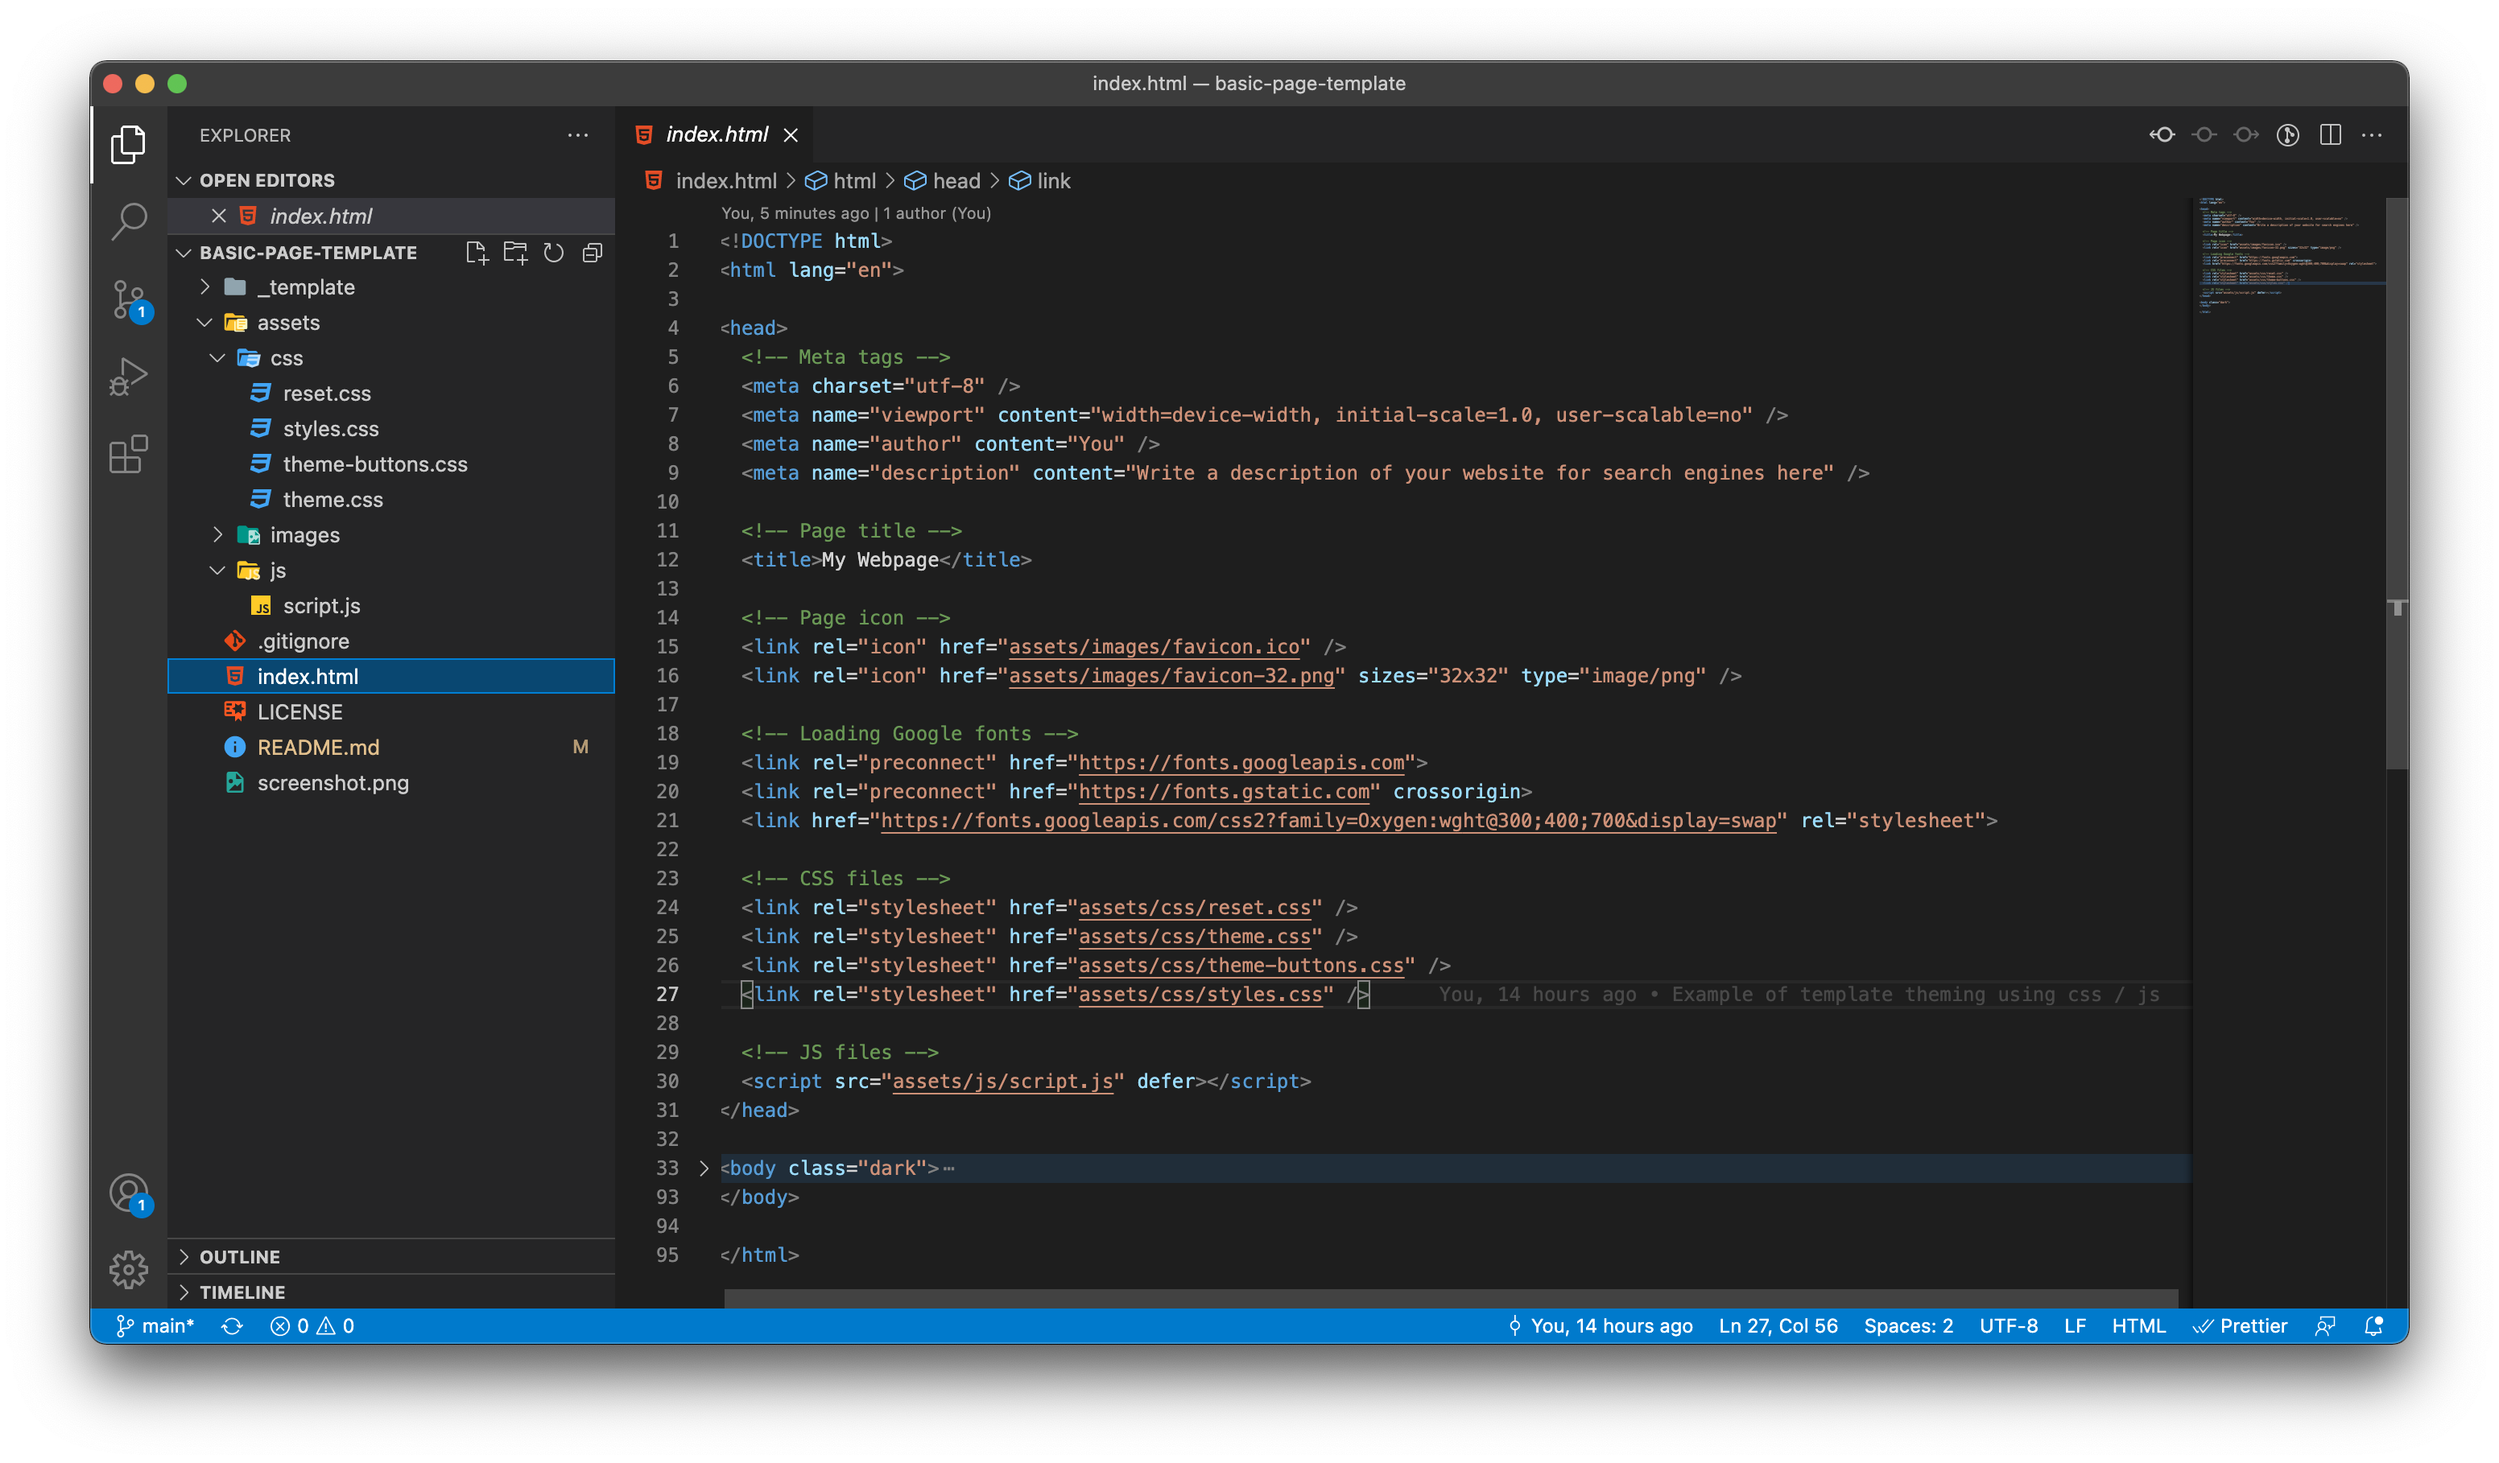
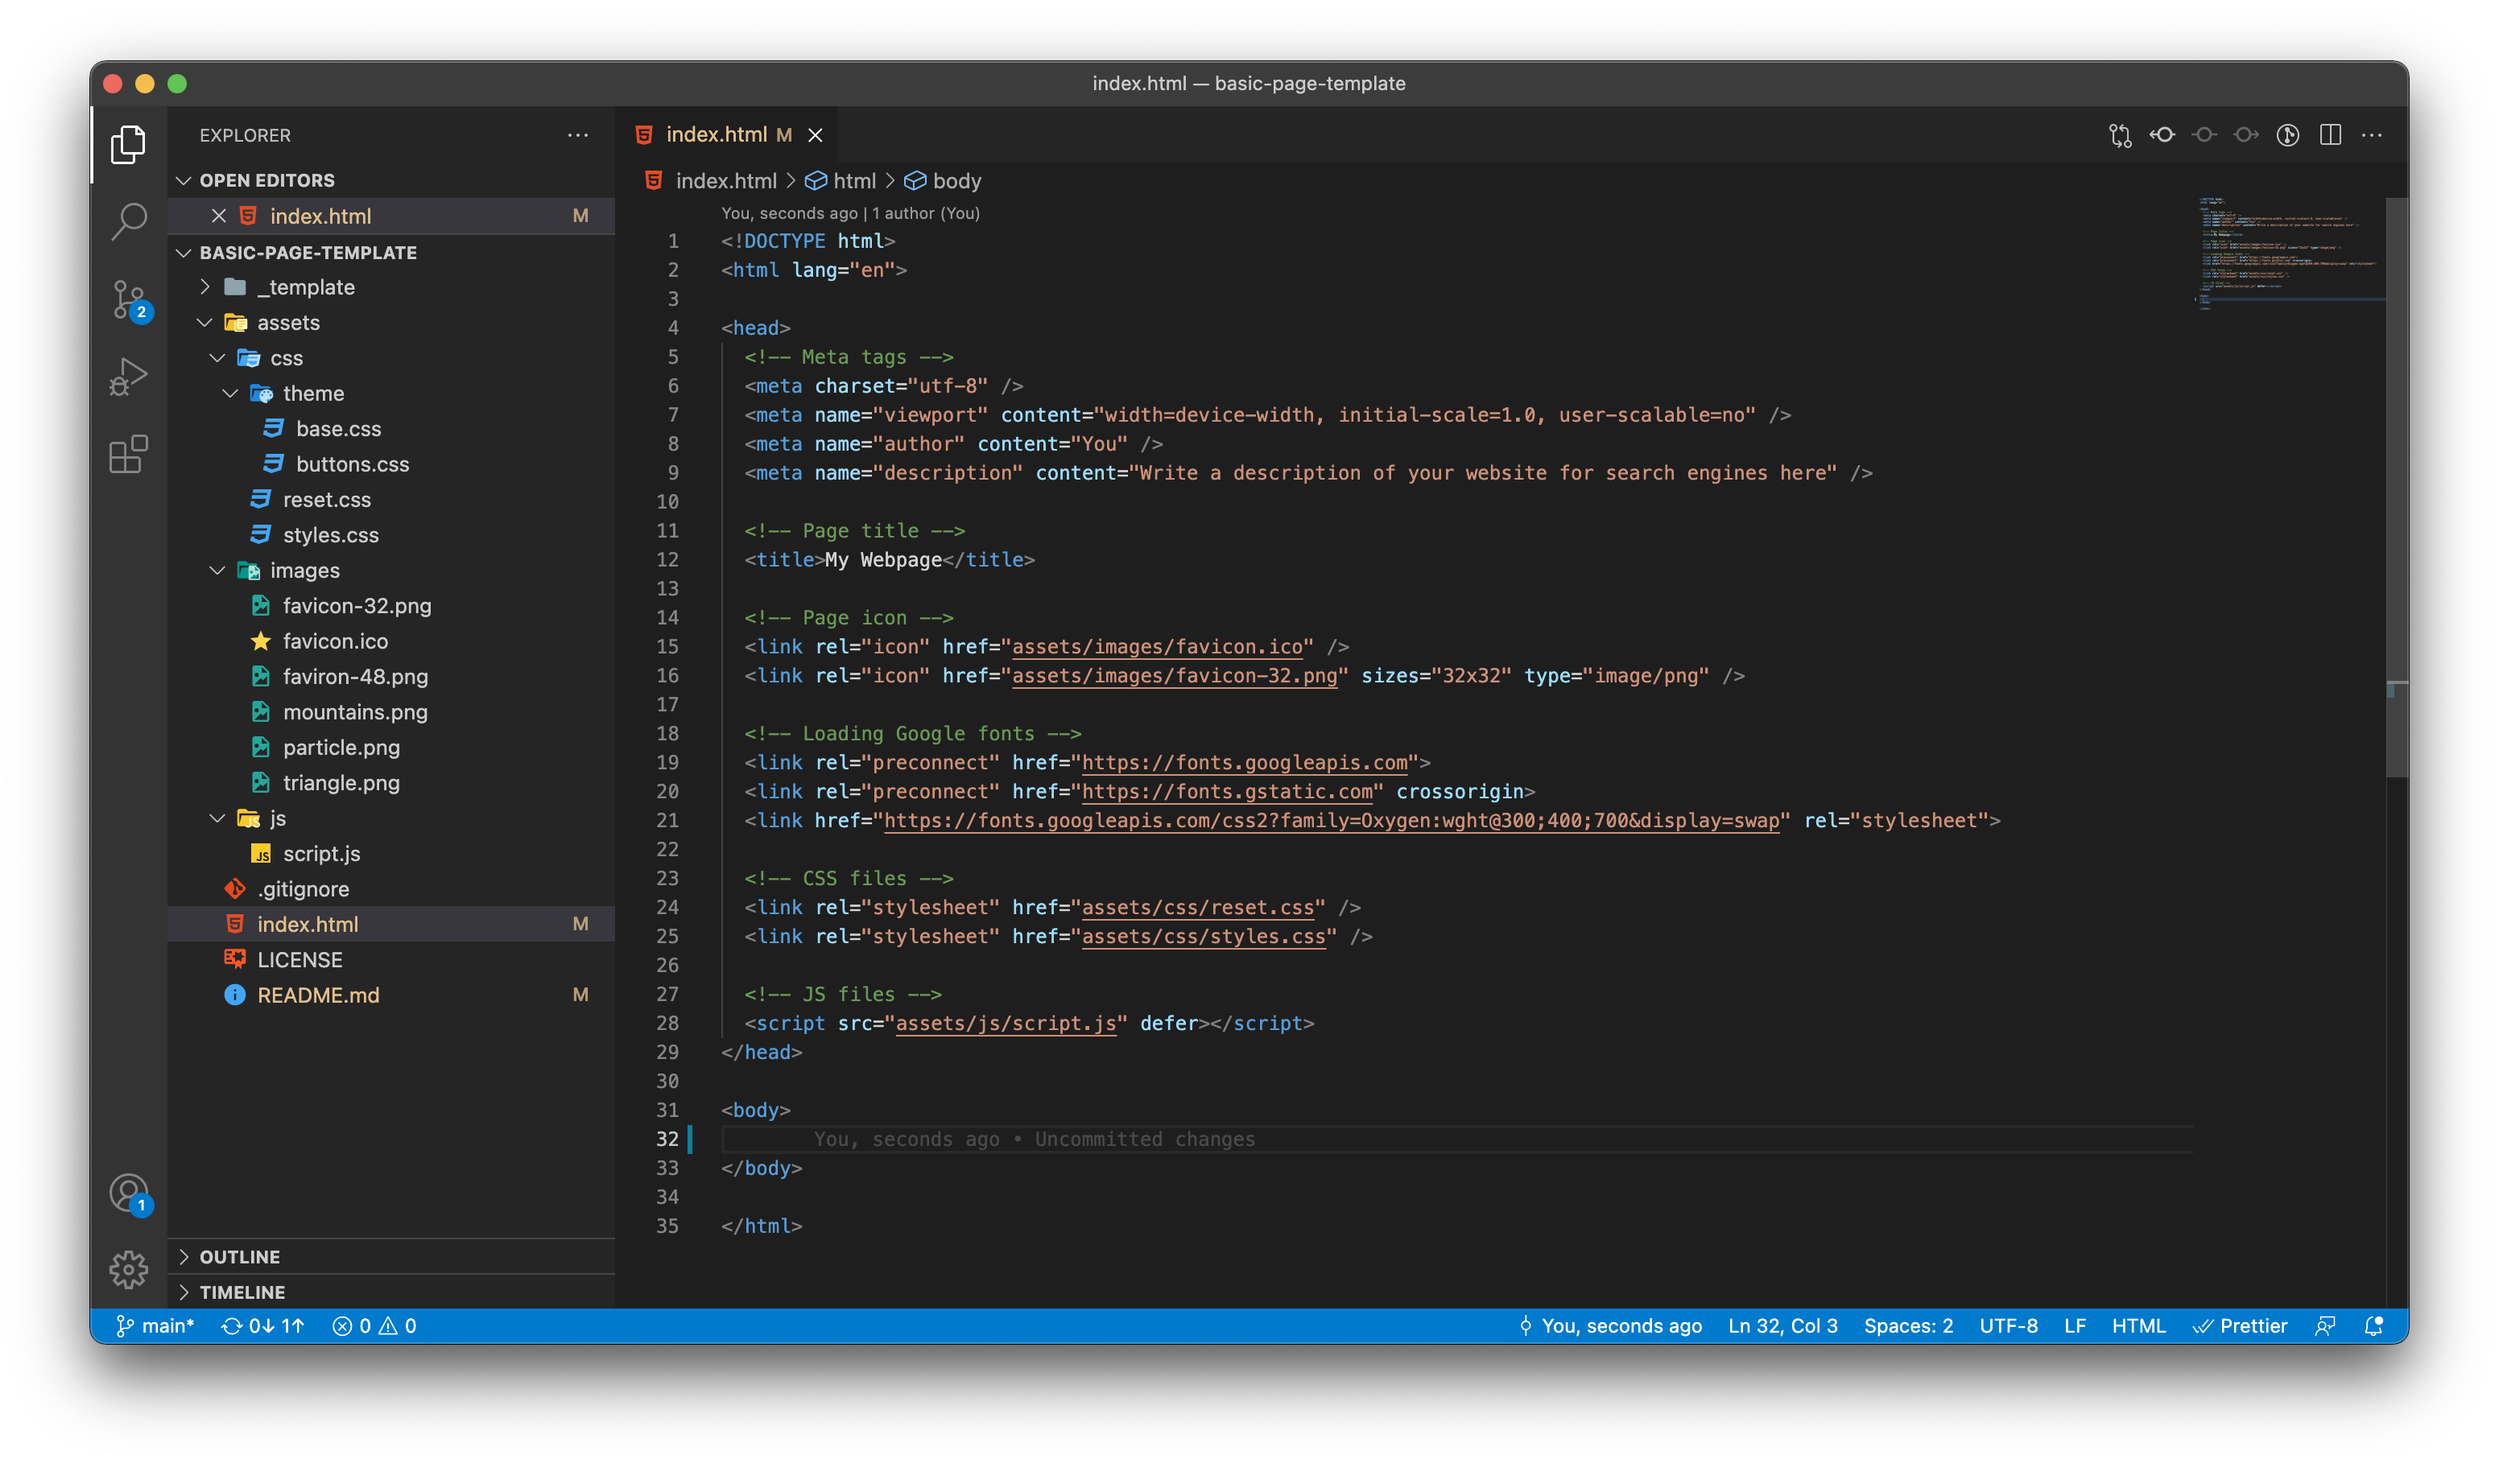
Update screenshot, move demo files to their own folder

diff --git a/_template/demo/demo.html b/_template/demo/demo.html
@@ -12,7 +12,7 @@
   <title>Theme demo</title>
 
   <!-- Page icon -->
-  <link rel="icon" href="../assets/images/faviron-48.png" sizes="48x48" type="image/png" />
+  <link rel="icon" href="./faviron-48.png" sizes="48x48" type="image/png" />
 
   <!-- Loading Google fonts -->
   <link rel="preconnect" href="https://fonts.googleapis.com">
@@ -20,15 +20,15 @@
   <link href="https://fonts.googleapis.com/css2?family=Oxygen:wght@300;400;700&display=swap" rel="stylesheet">
 
   <!-- CSS files -->
-  <link rel="stylesheet" href="../assets/css/reset.css" />
-  <link rel="stylesheet" href="../assets/css/theme/base.css" />
-  <link rel="stylesheet" href="../assets/css/theme/buttons.css" />
-  <link rel="stylesheet" href="../assets/css/styles.css" />
+  <link rel="stylesheet" href="../../assets/css/reset.css" />
+  <link rel="stylesheet" href="../../assets/css/theme/base.css" />
+  <link rel="stylesheet" href="../../assets/css/theme/buttons.css" />
+  <link rel="stylesheet" href="../../assets/css/styles.css" />
   <link rel="stylesheet" href="./demo.css" />
 
   <!-- JS files -->
   <script src="./demo.js" defer></script>
-  <script src="../assets/js/script.js" defer></script>
+  <script src="../../assets/js/script.js" defer></script>
 </head>
 
 <body class="dark">
